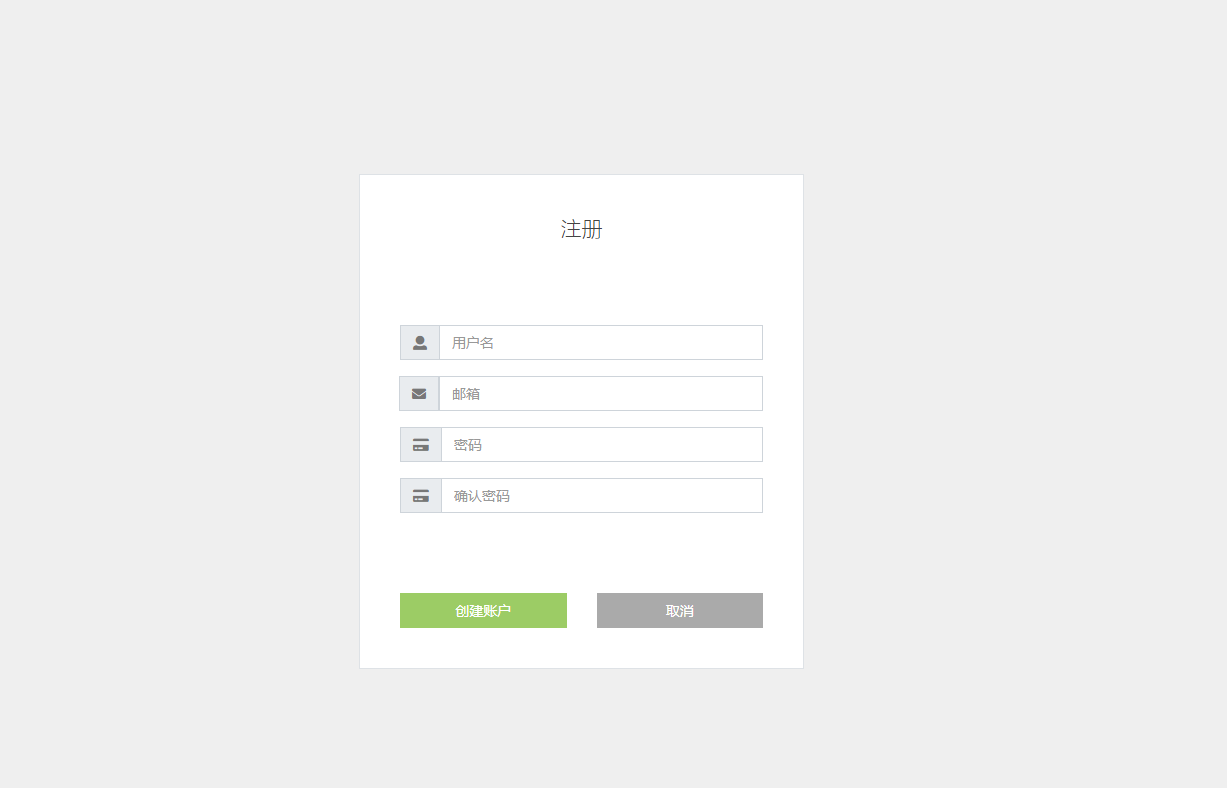
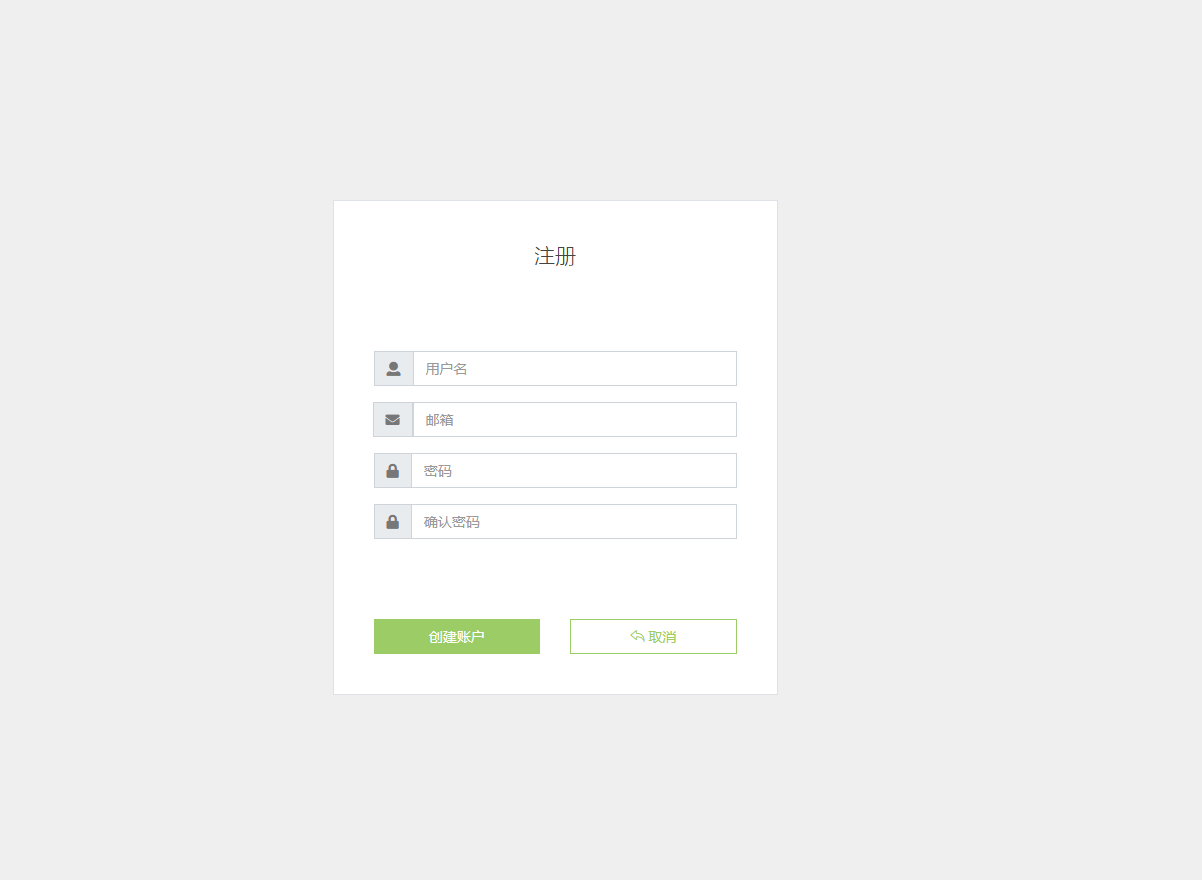
修改注册登录页

diff --git a/templates/account/register.html b/templates/account/register.html
@@ -57,7 +57,7 @@
 -->
                         <div class="input-group mb-3">
                            <div class="input-group-prepend">
-                              <span class="input-group-text"><i class="fa fa-credit-card"></i></span>
+                              <span class="input-group-text"><i class="fa fa-lock"></i></span>
                            </div>
                            <input type="password" class="form-control" placeholder="密码" name="pwd1">
                         </div>
@@ -69,7 +69,7 @@
 -->
                         <div class="input-group mb-3">
                            <div class="input-group-prepend">
-                              <span class="input-group-text"><i class="fa fa-credit-card"></i></span>
+                              <span class="input-group-text"><i class="fa fa-lock"></i></span>
                            </div>
                            <input type="password" class="form-control" placeholder="确认密码" name="pwd2">
                         </div>
@@ -81,7 +81,9 @@
                                 <button type="submit" class="btn btn-success btn-block">创建账户</button>
                             </div>
                             <div class="col-6">
-                                <a href="/cmdb/login/" class="btn btn-secondary btn-block">取消</a>
+                                <a href="/cmdb/login/" class="btn btn-outline-success btn-block">
+                                    <i class="icon icon-action-undo"></i>  取消
+                                </a>
                             </div>
                         </div>
                     </div>

diff --git a/templates/account/login.html b/templates/account/login.html
@@ -50,9 +50,9 @@
                         <div class="form-group">
                             <label class="form-control-label">密码</label>
                            <div class="input-group-prepend">
-                              <span class="input-group-text"><i class="fa fa-credit-card"></i></span>
+                              <span class="input-group-text"><i class="fa fa-lock"></i></span>
                            <!--</div>-->
-                           <input type="password" class="form-control" placeholder="密  码" name="pwd">
+                           <input type="password" class="form-control" placeholder="密码" name="pwd">
                            </div>
                         </div>
 
